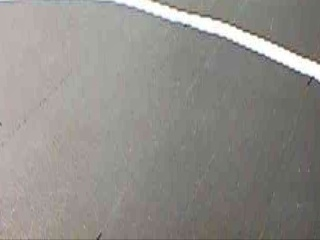
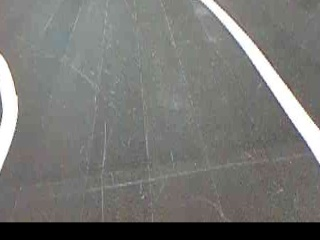
일단 올림

diff --git a/app.py b/app.py
@@ -48,7 +48,7 @@ try:
     model.eval()
     print("YOLOv5 커스텀 모델이 성공적으로 로드되었습니다.")
     # 모델 설정
-    model.conf = 0.3  # 신뢰도 임계값
+    model.conf = 0.5  # 신뢰도 임계값
     model.max_det = 3  # 최대 검출 객체 수
     model = quantize_dynamic(model, {torch.nn.Linear}, dtype=torch.qint8)
 except Exception as e:
@@ -140,7 +140,7 @@ def handle_frame(data):
         # YOLO 처리
         height = frame.shape[0]
         cropped_frame = frame[:int(height), :]
-        results = model(cropped_frame, size=320)
+        results = model(cropped_frame, size=240)
         yolo_frame = np.squeeze(results.render())
         
         # 차량별 저장 디렉토리에 저장
@@ -168,8 +168,8 @@ def handle_frame(data):
         
         # 10개의 프레임마다 평균 처리 시간 출력
         if car.frame_count % 10 == 0:
-            avg_processing_time = car.get_average_processing_time()
-            print(f"차량 {car_num}: 평균 {avg_processing_time:.3f}초 소요 (프레임 {car.frame_count}개 처리)")
+            avg_processing_time = car.get_processing_time()
+            print(f"차량 {car_num}: {avg_processing_time:.3f}초 소요 (프레임 {car.frame_count}개 처리)")
             socketio.emit('data', {
                 'speed': car.speed,
                 'angle': steering_angle,
@@ -210,8 +210,6 @@ def input_handler():
             print(f"플래튜닝 모드가 {mode_status}되었습니다.")
         else:
             print("잘못된 명령어입니다. 1, 0, 또는 p를 입력하세요.")
-        
-
 
 def process_line(frame, window: SlidingWindow, steering_controller: SteeringController, frame_count, save_dir):
     """

diff --git a/client/client.py b/client/client.py
@@ -39,7 +39,7 @@ class CarConfig:
     CAMERA_SIZE = (640, 480)
     
     # 서버 설정
-    SERVER_URL = 'http://192.168.0.x:5000'
+    SERVER_URL = 'http://192.168.0.8:5000'
     
     # 차량 번호
     CAR_NUMBER = None
@@ -112,6 +112,9 @@ class CarController:
     def init_socket(self):
         self.sio = socketio.Client()
         self.setup_socket_events()
+        self.last_stats_time = time.time()
+        self.frame_count = 0
+        self.total_processing_time = 0
     
     def setup_socket_events(self):
         @self.sio.event
@@ -141,6 +144,16 @@ class CarController:
             if RUNNING_STATE:
                 self.motor.throttle = data['speed']
                 self.steering.angle = CarConfig.SERVO_STEERING_DEFAULT + data['angle']
+                
+                # 처리 시간과 프레임 카운트가 포함된 경우에만 통계 업데이트
+                if 'processing_time' in data and 'frame_count' in data:
+                    current_time = time.time()
+                    if current_time - self.last_stats_time >= 1.0:  # 1초마다 출력
+                        print(f"차량 {CarConfig.CAR_NUMBER} 통계:")
+                        print(f"처리된 프레임: {data['frame_count']}")
+                        print(f"평균 처리 시간: {data['processing_time']:.3f}초")
+                        print("-" * 30)
+                        self.last_stats_time = current_time
             else:
                 self.motor.throttle = 0
                 

diff --git a/car.py b/car.py
@@ -5,39 +5,9 @@ import time
 # image_setting.py와 sliding_window.py 모듈에서 필요한 클래스와 함수 가져오기
 from sliding_window import SlidingWindow
 from steering_controller import SteeringController
-from flask import Flask, request
 
-from flask import Flask
-from flask_socketio import SocketIO, emit
 import numpy as np
 import os
-import traceback
-
-import logging
-import warnings
-import pathlib
-import torch
-import json
-import base64
-from threading import Thread
-
-# 이미지 저장 경로 설정
-SAVE_DIR = "frames"
-
-app = Flask(__name__)
-socketio = SocketIO(app)
-
-log = logging.getLogger('werkzeug')
-log.setLevel(logging.ERROR)  # ERROR 레벨 이상만 표시
-socketio = SocketIO(app)
-
-# 로그 레벨 설정
-warnings.filterwarnings("ignore", category=FutureWarning)
-
-pathlib.PosixPath = pathlib.WindowsPath
-# YOLOv5 저장소 경로와 사용자 정의 가중치 파일 경로
-repo_path = "./yolov5"  # YOLOv5 소스코드가 있는 디렉토리
-model_path = "./best_final.pt"  # 학습된 가중치 파일
 
 # 이미지 저장 경로 설정
 SAVE_DIR = "frames"
@@ -72,7 +42,7 @@ class Car:
         if len(self.processing_times) > 10:
             self.processing_times.pop(0)
             
-    def get_average_processing_time(self):
+    def get_processing_time(self):
         if not self.processing_times:
             return 0
-        return sum(self.processing_times) / len(self.processing_times)
+        return sum(self.processing_times)

diff --git a/model_convert.py b/model_convert.py
@@ -1,0 +1,35 @@
+import onnxruntime
+from yolov5.export import run as export_model
+import os 
+import pathlib
+
+pathlib.PosixPath = pathlib.WindowsPath
+
+model_path = "./best_final.pt"  # 학습된 가중치 파일
+
+# YOLOv5 모델 로드 및 ONNX 변환
+try:
+    # ONNX 모델 파일 경로
+    onnx_path = "./best_final.onnx"
+    
+    # PyTorch 모델을 ONNX로 변환 (처음 한 번만 실행)
+    if not os.path.exists(onnx_path):
+        print("PyTorch 모델을 ONNX로 변환 중...")
+        export_model(
+            weights=model_path,
+            include=['onnx'],
+            imgsz=[320, 320],
+            device='cpu',
+            simplify=True
+        )
+        print("ONNX 변환 완료")
+    
+    # ONNX 런타임 세션 생성
+    providers = ['CPUExecutionProvider']
+    session = onnxruntime.InferenceSession(onnx_path, providers=providers)
+    
+    print("ONNX 모델이 성공적으로 로드되었습니다.")
+
+except Exception as e:
+    session = None
+    print(f"모델 로드 중 오류 발생: {e}")

diff --git a/sliding_window.py b/sliding_window.py
@@ -42,9 +42,9 @@ class SlidingWindow:
         warp_y_margin = 3
 
         src_pts1 = (240 - warp_x_margin, HALF_HEIGHT + 60)
-        src_pts2 = (0, IMAGE_HEIGHT)
+        src_pts2 = (0, IMAGE_HEIGHT + 20)
         src_pts3 = (400 + warp_x_margin, HALF_HEIGHT + 60)
-        src_pts4 = (IMAGE_WIDTH, IMAGE_HEIGHT)
+        src_pts4 = (IMAGE_WIDTH, IMAGE_HEIGHT + 20)
 
         dist_pts1 = (0, 0)
         dist_pts2 = (0, warp_image_height)

diff --git a/steering_controller.py b/steering_controller.py
@@ -18,7 +18,7 @@ class SteeringController:
         self.cm_per_pixel = self.lane_width_cm / self.lane_width_pixels
         
         # PID 제어 관련
-        self.kp = 0.25  # 기존의 error_scaling_factor 값을 Kp로 사용
+        self.kp = 0.26  # 기존의 error_scaling_factor 값을 Kp로 사용
         self.ki = 0.000  # 누적 오차에 대한 보정
         self.kd = 0.000   # 급격한 변화 방지
         

diff --git a/Ai_requirements/플래튜닝.md b/Ai_requirements/플래튜닝.md
@@ -1,0 +1,7 @@
+# 플래튜닝 모드 구현
+
+- 메인(리더) 차량의 속도 0.5로 고정
+- distance값(초음파센서 값)이 5프레임동안 0.4 이하일 경우 속도를 리더차량과 동일하게 유지.
+  - 만약 초음파센서 값이 5프레임동안 0.4 이하일 경우 속도를 리더차량과 동일하게 유지하는 것이 아니라 속도 0.4로 하기.
+- distance값이 0.4 ~ 0.7이고 yolo에 클래스 2 또는 3이 검출될 경우 속도를 리더차량과 동일하게 유지.
+- distance값이 0.7 이상이면 리더 차량의 속도 + 0.1을 해서 리더차량에 따라붙기.
